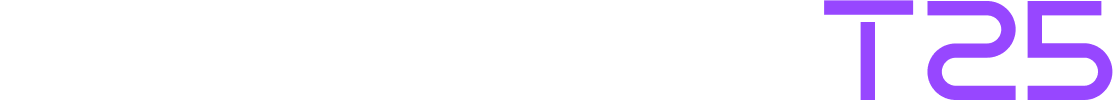
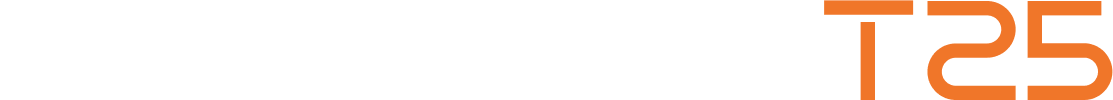
images added

Changed region(s): [[0.7332, 0.0, 1.0, 1.0], [0.7637, 0.21, 0.7942, 1.0]]

diff --git a/Frontend/src/Pages/Events/EventDetails/EventDetails.jsx b/Frontend/src/Pages/Events/EventDetails/EventDetails.jsx
@@ -24,12 +24,19 @@ import Tech17 from "../../../assets/EventsImages/EventDetails/TechnicalImages/vl
 import Tech18 from "../../../assets/EventsImages/EventDetails/TechnicalImages/Bt.png"
 
 
-import NonTech1 from "../../../assets/EventsImages/EventDetails/Nontech/ComputerScienceandBusinessSystem.png"
-import NonTech2 from "../../../assets/EventsImages/EventDetails/Nontech/ComputerScienceandEngineering.png"
-import NonTech3 from "../../../assets/EventsImages/EventDetails/Nontech/ElectricalandElectronicsEngineering.png"
-import NonTech4 from "../../../assets/EventsImages/EventDetails/Nontech/MechanicalEngineering.png"
-import NonTech5 from "../../../assets/EventsImages/EventDetails/Nontech/TextileTechnology.png"
-import NonTech6 from "../../../assets/EventsImages/EventDetails/Nontech/AIDS.png"
+import NonTech1 from "../../../assets/EventsImages/EventDetails/Nontech/DEPARTMENT OF MECHATRONICS.png"
+import NonTech2 from "../../../assets/EventsImages/EventDetails/Nontech/DEPARTMENT OF CSBS.png"
+import NonTech3 from "../../../assets/EventsImages/EventDetails/Nontech/DEPARTMENT OF AIDS.png"
+import NonTech4 from "../../../assets/EventsImages/EventDetails/Nontech/DEPARTMENT OF BIO TECH.png"
+import NonTech5 from "../../../assets/EventsImages/EventDetails/Nontech/DEPARTMENT OF CIVIL.png"
+import NonTech6 from "../../../assets/EventsImages/EventDetails/Nontech/DEPARTMENT OF CSE.png"
+import NonTech7 from "../../../assets/EventsImages/EventDetails/Nontech/DEPARTMENT OF ECE.png"
+import NonTech8 from "../../../assets/EventsImages/EventDetails/Nontech/DEPARTMENT OF EEE.png"
+import NonTech9 from "../../../assets/EventsImages/EventDetails/Nontech/DEPARTMENT OF FOOD TECH.png"
+// import NonTech10 from "../../../assets/EventsImages/EventDetails/Nontech/DEPARTMENT OF IT.png"
+import NonTech11 from "../../../assets/EventsImages/EventDetails/Nontech/DEPARTMENT OF MECH.png"
+import NonTech12 from "../../../assets/EventsImages/EventDetails/Nontech/DEPARTMENT OF TEXTILE.png"
+import NonTech13 from "../../../assets/EventsImages/EventDetails/Nontech/DEPARTMENT OF VLSI.png"
 
 
 import Workshop1 from "../../../assets/EventsImages/EventDetails/Workshop/Department Of EEE - Industry IOT.png"
@@ -851,7 +858,7 @@ const EventDetails = () => {
             title: "trailblazers: The Clue Hunt",
             description:
                 "Trailblazers is an interactive clue hunt event designed to test participants' problem-solving and teamwork skills. Teams will solve riddles, puzzles, and locate QR codes to progress through the challenge.",
-            image: NonTech2,
+            image: NonTech6,
             rounds: [
                 {
                     title: "Round 1",
@@ -905,7 +912,7 @@ const EventDetails = () => {
             title: "Tech-Link Challenge",
             description:
                 "Tech-Link Challenge encourages creative thinking and teamwork to tackle complex challenges in a fun and engaging way.",
-            image: NonTech3,
+            image: NonTech8,
             rounds: [
                 {
                     title: "Round 1",
@@ -966,7 +973,7 @@ const EventDetails = () => {
             title: "CONNEXION",
             description:
                 "We are delighted to present CONNEXION, a fun and engaging non-tech game that challenges your imagination, observation, and quick thinking. The game consists of three thrilling rounds, where the players connect the clues in the given images to reach the correct conclusion.",
-            image: "https://images.unsplash.com/photo-1739609579483-00b49437cc45?q=80&w=2071&auto=format&fit=crop&ixlib=rb-4.0.3&ixid=M3wxMjA3fDB8MHxwaG90by1wYWdlfHx8fGVufDB8fHx8fA%3D%3D",
+            image: NonTech13,
             rounds: [
                 {
                     title: "Round 1 – Guess Similar Words:",
@@ -1034,7 +1041,7 @@ const EventDetails = () => {
             title: "Dumb Charades - Act It Out!",
             description:
                 "A fun and engaging event where participants act out biotech-related words or phrases without speaking",
-            image: "https://images.unsplash.com/photo-1739609579483-00b49437cc45?q=80&w=2071&auto=format&fit=crop&ixlib=rb-4.0.3&ixid=M3wxMjA3fDB8MHxwaG90by1wYWdlfHx8fGVufDB8fHx8fA%3D%3D",
+            image: NonTech4,
             rounds: [
                 {
                     title: "Round 1 – Qualifiers:",
@@ -1100,7 +1107,7 @@ const EventDetails = () => {
             title: "Its Talk Time",
             description:
                 "Two teams face off, taking turns to continue a given sentence within 5 seconds. Each team starts with 3 lives and failing to respond in time or providing an illogical continuation results in losing a life. The game continues until one team loses all three lives and gets eliminated. With pressure mounting and stories taking unexpected turns, teams must stay sharp and work together to keep the narrative flowing. The last team standing wins, proving their mastery of words and quick wit!",
-            image: "https://images.unsplash.com/photo-1739609579483-00b49437cc45?q=80&w=2071&auto=format&fit=crop&ixlib=rb-4.0.3&ixid=M3wxMjA3fDB8MHxwaG90by1wYWdlfHx8fGVufDB8fHx8fA%3D%3D",
+            image: NonTech1,
             rounds: [
                 {
                     title: "Round 1",
@@ -1160,7 +1167,7 @@ const EventDetails = () => {
             title: "SyncX",
             description:
                 "Two teams face off, taking turns to continue a given sentence within 5 seconds. Each team starts with 3 lives and failing to respond in time or providing an illogical continuation results in losing a life. The game continues until one team loses all three lives and gets eliminated. With pressure mounting and stories taking unexpected turns, teams must stay sharp and work together to keep the narrative flowing. The last team standing wins, proving their mastery of words and quick wit!",
-            image: NonTech1,
+            image: NonTech2,
             rounds: [
                 {
                     title: "Round 1",
@@ -1228,7 +1235,7 @@ const EventDetails = () => {
             title: "A Guess Change",
             description:
                 "Unmasking Brands & Flavors: A Journey Through Corporate Identities & Culinary Secrets This event is designed to challenge participantsknowledge of corporate branding and food recognition through an interactive three-level game. It tests awareness, teamwork, and quick thinking in a fun and engaging way.",
-            image: "https://images.unsplash.com/photo-1739609579483-00b49437cc45?q=80&w=2071&auto=format&fit=crop&ixlib=rb-4.0.3&ixid=M3wxMjA3fDB8MHxwaG90by1wYWdlfHx8fGVufDB8fHx8fA%3D%3D",
+            image: NonTech9,
             rounds: [
                 {
                     title: "Level 1: Logo Guessing Challenge",
@@ -1304,7 +1311,7 @@ const EventDetails = () => {
             title: "one Click",
             description:
                 "Capture the beauty of our campus and showcase your photography skills in this exciting contest! Post your photo on social media with #ksrct1994 to gain bonus points based on likes. Participants receive certificates, and winners get a cash prize! 📸✨",
-            image: NonTech4,
+            image: NonTech11,
             rounds: [
             ],
             rules: [
@@ -1342,7 +1349,7 @@ const EventDetails = () => {
             title: "404:Meme Overload (Meme creation based on IT scenarios)",
             description:
                 "IT Meme Battle is a fun and creative competition where teams of one or two members create original IT-related memes. Participants can use image + text, GIFs, or even hand-drawn memes for extra creativity. Plagiarized content will lead to disqualification, and all memes must be appropriate and respectful. Submissions must be made within the given time limit. Let your humor and tech knowledge shine in this battle of wit and creativity.",
-            image: "https://images.unsplash.com/photo-1739609579483-00b49437cc45?q=80&w=2071&auto=format&fit=crop&ixlib=rb-4.0.3&ixid=M3wxMjA3fDB8MHxwaG90by1wYWdlfHx8fGVufDB8fHx8fA%3D%3D",
+            image: NonTech1,
             rounds: [
             ],
             rules: [
@@ -1386,7 +1393,7 @@ const EventDetails = () => {
             title: "Short Film Contest",
             description:
                 "'Short Film Contest' is a non-technical event where individuals or teams (2-5 members) create original short films on themes like environmental awareness, food adulteration, sci-fi, and sustainability. Films must be 3-10 minutes long and submitted in MP4, MOV, or AVI format. Winners will be judged on creativity, storytelling, and impact! 🎬✨",
-            image: NonTech6,
+            image: NonTech3,
             rounds: [
             ],
             rules: [
@@ -1433,7 +1440,7 @@ const EventDetails = () => {
             title: "Bike & Car Modification Showcase",
             description:
                 "This event is a platform for automobile enthusiasts to showcase their customized bikes and cars. Participants will display their creative designs, performance upgrades, and cutting-edge modifications. The event aims to celebrate engineering and artistic skills in vehicle customization.•Free of charge (No registration fee).•	Awards for top performers. •	Certificates for all participants. ",
-            image: "https://images.unsplash.com/photo-1739609579483-00b49437cc45?q=80&w=2071&auto=format&fit=crop&ixlib=rb-4.0.3&ixid=M3wxMjA3fDB8MHxwaG90by1wYWdlfHx8fGVufDB8fHx8fA%3D%3D",
+            image: NonTech5,
             rounds: [
             ],
             rules: [
@@ -1484,7 +1491,7 @@ const EventDetails = () => {
             title: "Mind Maze",
             description:
                 "Mind Maze is an exciting non-technical event that challenges participants to decode hidden clues from images using logic, pattern recognition, and creative thinking. Participants will engage their problem-solving skills to uncover the mystery, aiming to be the first to solve the clue within the time limit.",
-            image: "https://images.unsplash.com/photo-1739609579483-00b49437cc45?q=80&w=2071&auto=format&fit=crop&ixlib=rb-4.0.3&ixid=M3wxMjA3fDB8MHxwaG90by1wYWdlfHx8fGVufDB8fHx8fA%3D%3D",
+            image: NonTech7,
             rounds: [
                 {
                     title: "Single Round",

diff --git a/Frontend/src/Pages/Events/Events.jsx b/Frontend/src/Pages/Events/Events.jsx
@@ -25,13 +25,13 @@ import Tech15 from "../../assets/EventsImages/EventDetails/TechnicalImages/tex.p
 import Tech16 from "../../assets/EventsImages/EventDetails/TechnicalImages/Ai4.png"
 import Tech17 from "../../assets/EventsImages/EventDetails/TechnicalImages/VLSI.png"
 
-import Nontech1 from "../../assets/EventsImages/EventDetails/Nontech/ComputerScienceandBusinessSystem.png"
-import Nontech2 from "../../assets/EventsImages/EventDetails/Nontech/ComputerScienceandEngineering.png"
-import Nontech3 from "../../assets/EventsImages/EventDetails/Nontech/ElectricalandElectronicsEngineering.png"
-import Nontech4 from "../../assets/EventsImages/EventDetails/Nontech/MechanicalEngineering.png"
-import Nontech5 from "../../assets/EventsImages/EventDetails/Nontech/TextileTechnology.png"
-import Nontech6 from "../../assets/EventsImages/EventDetails/Nontech/AIDS.png"
-import Nontech7 from "../../assets/EventsImages/EventDetails/Nontech/BT.png"
+import Nontech1 from "../../assets/EventsImages/EventDetails/Nontech/DEPARTMENT OF CSBS.png"
+import Nontech2 from "../../assets/EventsImages/EventDetails/Nontech/DEPARTMENT OF CSE.png"
+import Nontech3 from "../../assets/EventsImages/EventDetails/Nontech/DEPARTMENT OF EEE.png"
+import Nontech4 from "../../assets/EventsImages/EventDetails/Nontech/DEPARTMENT OF MECH.png"
+import Nontech5 from "../../assets/EventsImages/EventDetails/Nontech/DEPARTMENT OF TEXTILE.png"
+import Nontech6 from "../../assets/EventsImages/EventDetails/Nontech/DEPARTMENT OF AIDS.png"
+import Nontech7 from "../../assets/EventsImages/EventDetails/Nontech/DEPARTMENT OF BIO TECH.png"
 
 
 import workshop1 from "../../assets/EventsImages/EventDetails/Workshop/CSE.png"

diff --git a/Frontend/src/Pages/GuestLecture/Components/GuestLectureCards.jsx b/Frontend/src/Pages/GuestLecture/Components/GuestLectureCards.jsx
@@ -23,7 +23,7 @@ const GuestLectureCard = ({ name, title, image, time, date, location }) => {
                             <img
                                 src={image}
                                 alt={name}
-                                className="w-full h-[250px] sm:h-[300px] md:h-full clip-top-left object-cover" // Responsive height
+                                className="w-full h-[250px] sm:h-[300px] md:h-full object-cover" // Responsive height
                             />
                         </div>
                     </div>
@@ -72,7 +72,7 @@ const GuestLectureCard = ({ name, title, image, time, date, location }) => {
                             </motion.div>
                         </div> */}
                         <button
-                            className="mb-8 w-full md:w-auto md:mt-5 px-6 py-3 bg-sky-600 clip bg-opacity-70 border-2 border-sky-900 hover:bg-sky-800 transition-all text-white font-semibold text-xl md:text-2xl shadow-xl"
+                            className="mb-8 w-full md:w-auto md:mt-5 px-6 py-3 bg-sky-600 clip bg-opacity-70 border-2 border-sky-900 hover:bg-sky-800 transition-all text-white font-semibold text-xl md:text-xl shadow-xl"
                             onClick={() => window.open("www.google.com", "_blank")} // Open registration link in a new tab
                         >
                             REGISTER NOW!

diff --git a/Frontend/src/Pages/GuestLecture/GuestLecture.jsx b/Frontend/src/Pages/GuestLecture/GuestLecture.jsx
@@ -1,10 +1,10 @@
 import React from "react";
 import { motion } from "framer-motion";
 import GuestLectureCard from "./Components/GuestLectureCards";
-import cs from "../../assets/conference/cs.png";
-import mech from "../../assets/conference/mech.png";
-import els from "../../assets/conference/els.png";
-import is from "../../assets/conference/is.png";
+import cs from "../../assets/conference/3.png";
+import mech from "../../assets/conference/1.png";
+import els from "../../assets/conference/4.png";
+import is from "../../assets/conference/2.png";
 
 
 const GuestLecture = () => {

diff --git a/Frontend/src/Pages/Home/Components/HeroSection.jsx b/Frontend/src/Pages/Home/Components/HeroSection.jsx
@@ -148,7 +148,7 @@ const HeroSection = () => {
               ))}
             </motion.div>
             
-            <h1 className="text-2xl font-orbitron md:text-4xl mt-4 md:mt-4"><q > Prize pool of <span className="text-purple-600">5 Lakhs</span> </q></h1>
+            <h1 className="text-2xl font-orbitron md:text-4xl mt-4 md:mt-4"><q > Prize pool of <span className="text-[#F07629]">5 Lakhs</span> </q></h1>
 
             {/* Register Button - Mobile (Below Image) */}
             <div className="md:hidden flex justify-center mt-6">

diff --git a/Frontend/src/Pages/Layout/Footer.jsx b/Frontend/src/Pages/Layout/Footer.jsx
@@ -1,8 +1,8 @@
 import React from 'react';
 import { FaPhone, FaEnvelope, FaMapMarkerAlt, FaInstagram, FaFacebook, FaLinkedin, FaYoutube } from "react-icons/fa";
 import { FaXTwitter } from "react-icons/fa6";
-import ksrct from '../../assets/collegeLogo.png';
-import dakshaa from '../../assets/logo.png';
+import ksrct from '../../assets/collegeLogoWhite.png';
+import dakshaa from '../../assets/logo1.png';
 
 const Footer = () => {
     return (

diff --git a/Frontend/src/Pages/Layout/Navbar.jsx b/Frontend/src/Pages/Layout/Navbar.jsx
@@ -1,5 +1,5 @@
 import logo from "../../assets/logo1.png";
-import collegeLogo from "../../assets/collegeLogo.png";
+import collegeLogo from "../../assets/collegeLogoWhite.png";
 import round from "../../assets/round.svg";
 import { React, useState, useEffect, useRef } from "react";
 import { useNavigate } from "react-router-dom";

diff --git a/Frontend/src/Pages/Startup/Components/StartupSection.jsx b/Frontend/src/Pages/Startup/Components/StartupSection.jsx
@@ -4,8 +4,6 @@ import AOS from "aos";
 import "aos/dist/aos.css";
 
 import startuptn from "../../../assets/startup/startuptn.jpg";
-import tnrise from "../../../assets/startup/tnrise.png";
-import isua from "../../../assets/startup/isua.jpg";
 
 function StartupSection() {
   const title = "Startups";

diff --git a/Frontend/src/Pages/Home/Components/About.jsx b/Frontend/src/Pages/Home/Components/About.jsx
@@ -1,6 +1,6 @@
 import React from "react";
 import college from "../../../assets/college.png";
-import logo from "../../../assets/logo.png";
+import logo from "../../../assets/logo1.png";
 
 function About() {
   return (

diff --git a/Frontend/src/Pages/Home/Components/Countdown.jsx b/Frontend/src/Pages/Home/Components/Countdown.jsx
@@ -1,5 +1,4 @@
 import React, { useState, useEffect } from "react";
-import divider from "../../../assets/divider.svg";
 import warning from "../../../assets/warning.svg";
 
 const CountdownTimer = () => {
